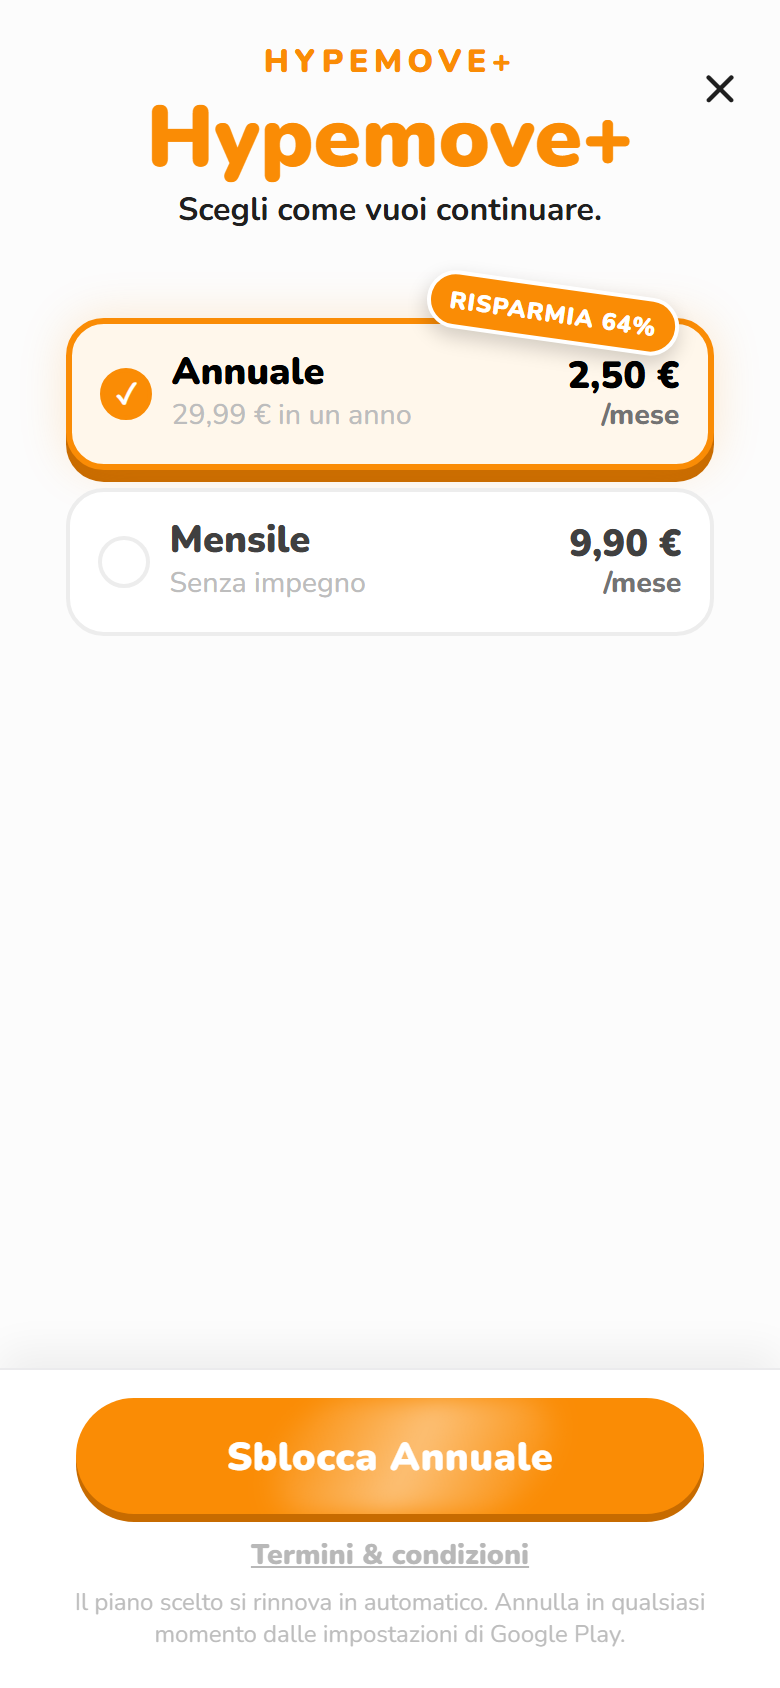
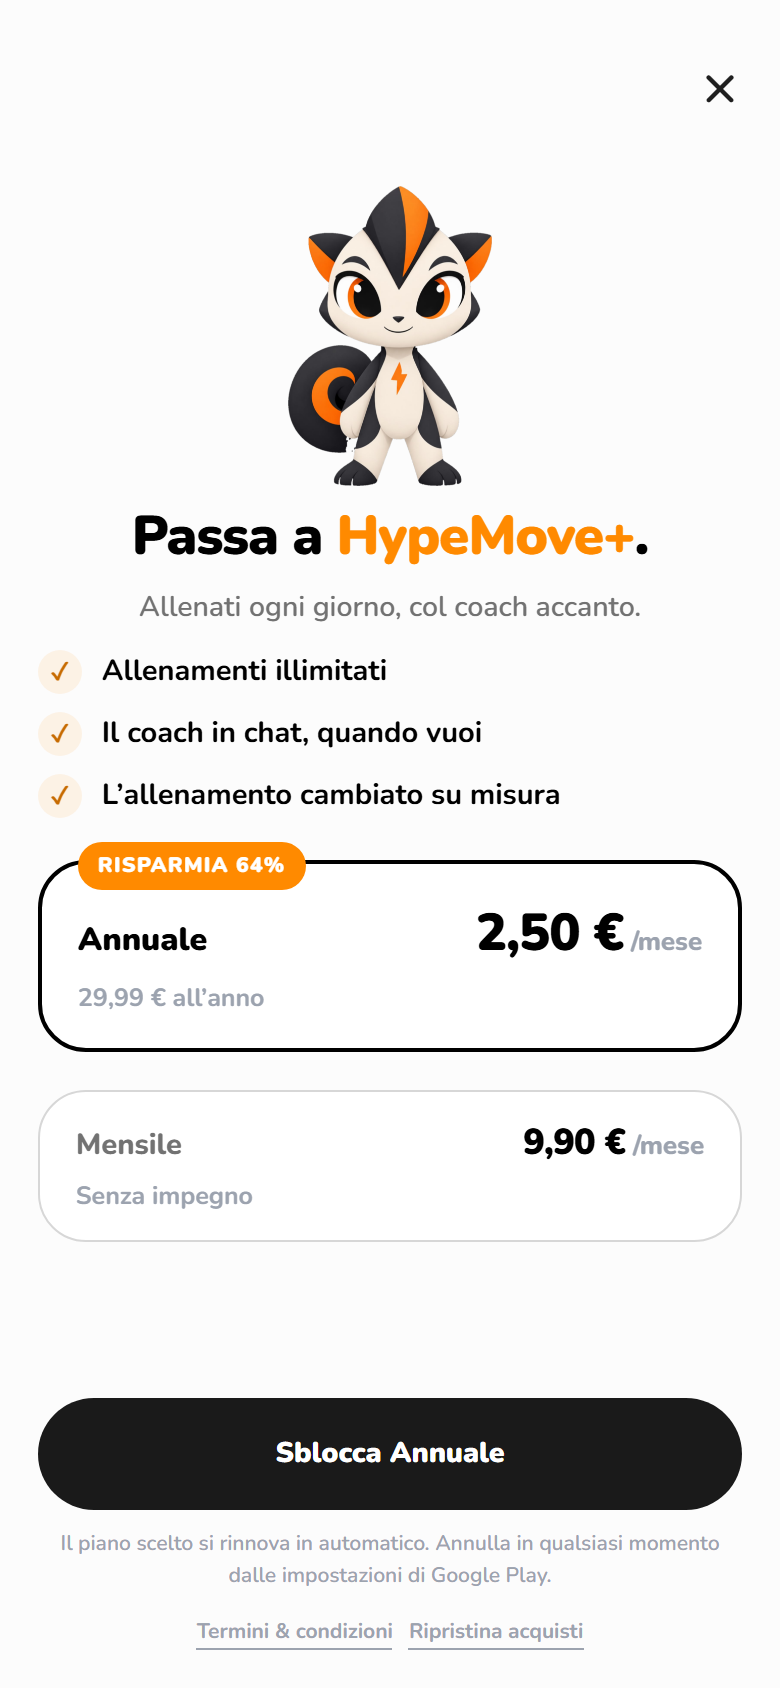
kpi: Coach AI · demo, i prezzi sono quelli del Contacalorie coi testi del coach

diff --git a/public/internal/js/kpi.js b/public/internal/js/kpi.js
@@ -7124,7 +7124,7 @@ function sezioneTimeoutBox(msg, retryCall) {
 // mostrare i byte vecchi anche con no-cache (successo il 17/09/2026: la miniatura di
 // «Fine onboarding · grafico» mostrava ancora «programma pronto», che era il contenuto
 // precedente di quel file). Da bumpare a ogni giro di paywall-shots.mjs.
-const PAYWALL_SHOT_V = '20260926a';
+const PAYWALL_SHOT_V = '20260927a';
 
 const CREATIVE_REGISTRY = [
   {
@@ -7320,13 +7320,13 @@ const CREATIVE_REGISTRY = [
     where: 'Overlay a schermo pieno sopra la chat del coach o il dettaglio dell\'allenamento.',
     when: 'Quando i crediti AI sono finiti e l\'utente prova comunque a usarli: scrivendo al coach in chat, toccando «Modifica» nel dettaglio dell\'allenamento, o dalla CTA della card upsell in chat. Dal 26/09/2026, al posto di «Coach AI · chat».',
     exit: 'La × dell\'overlay su entrambe le schermate. Il tasto indietro dai prezzi torna alla dimostrazione, dalla dimostrazione chiude.',
-    what: 'La prima slide della proposta del primo allenamento — la chat del coach che risponde coi numeri e apre il grafico del peso, dentro il telefono disegnato — con un titolo suo, «Chiedi al tuo coach quello che vuoi», e poi subito i piani. Due schermate e non tre: chi arriva qui ha appena sbattuto contro un muro (aveva una domanda e non può farla), e ogni schermata prima del prezzo è gente che se ne va. Il primo passo si chiama `hero` con feature `chat` come nella «Coach AI · chat», così i due gradini zero si confrontano.',
+    what: 'La prima slide della proposta del primo allenamento — la chat del coach che risponde coi numeri e apre il grafico del peso, dentro il telefono disegnato — con un titolo suo, «Chiedi al tuo coach quello che vuoi», e poi subito i piani, disegnati come quelli del Contacalorie ma coi punti del coach: allenamenti illimitati, il coach in chat, l\'allenamento cambiato su misura. Il pulsante promette la prova solo a chi su Play ne ha diritto (7 giorni sull\'annuale). Due schermate e non tre: chi arriva qui ha appena sbattuto contro un muro (aveva una domanda e non può farla), e ogni schermata prima del prezzo è gente che se ne va. Il primo passo si chiama `hero` con feature `chat` come nella «Coach AI · chat», così i due gradini zero si confrontano.',
     file: 'app/src/components/PremiumProposals/CoachAiDemoPaywall/CoachAiDemoFlow.tsx',
     screens: [
       { idx: 0, t: 'Il coach', d: '«Ehi coach, come sto andando?» → la risposta coi numeri e il grafico del peso che scende verso l\'obiettivo' },
-      { idx: 1, t: 'I prezzi', d: 'schermata piani standard, skin arancione' },
+      { idx: 1, t: 'I prezzi', d: 'la mascotte, «Passa a HypeMove+», tre punti sul coach e sugli allenamenti, le due tessere e il pulsante' },
     ],
-    note: 'La riga dell\'obiettivo nel grafico (55 kg) non ha una fonte dati vera, come nella tre-slide da cui viene: è una dimostrazione dichiarata, non i dati di chi guarda.',
+    note: 'La riga dell\'obiettivo nel grafico (55 kg) non ha una fonte dati vera, come nella tre-slide da cui viene: è una dimostrazione dichiarata, non i dati di chi guarda. La schermata dei prezzi è cambiata il 27/09/2026: prima era quella standard (skin arancione), dal 27/09 è quella del Contacalorie coi testi del coach. Le build uscite prima di quella data mostrano ancora la standard.',
   },
   {
     variant: 'coach_ai_visual',
